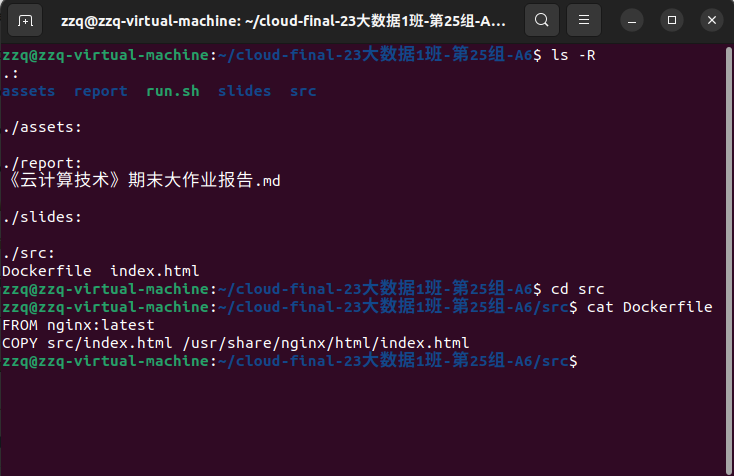
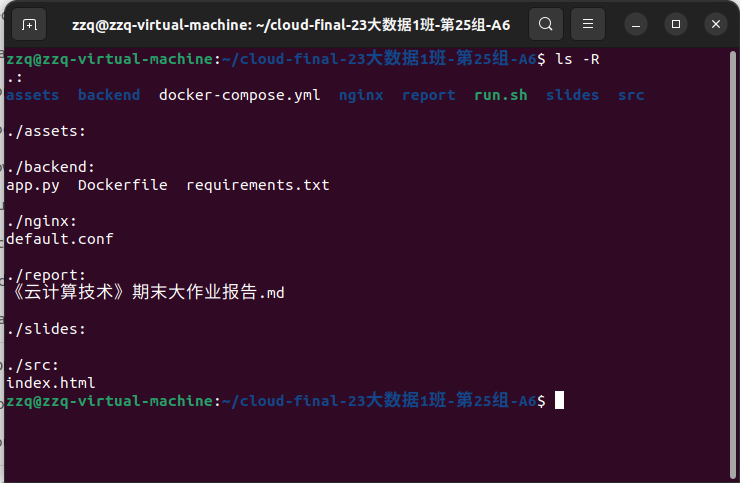
Add files via upload

diff --git a/report/实验报告.md b/report/实验报告.md
@@ -15,9 +15,9 @@
 
 | 角色 | 姓名 | 学号 | 分工 |
 | :--- | :--- | :--- | :--- |
-| 成员1 | (请填写) | (请填写) | 环境搭建、脚本编写与微服务调试 |
-| 成员2 | (请填写) | (请填写) | 镜像构建、后端代码实现与功能验证 |
-| 成员3 | (请填写) | (请填写) | 文档编写、排错记录与PPT制作 |
+| 成员1 | (周子棋40%) | (2362160025) | 环境搭建、脚本编写与微服务调试 |
+| 成员2 | (路雲通30%) | (2362160058) | 镜像构建、后端代码实现与功能验证 |
+| 成员3 | (朱星宇30%) | (2362160027) | 文档编写、排错记录与PPT制作 |
 
 ---
 
@@ -121,6 +121,10 @@ COPY src/index.html /usr/share/nginx/html/index.html
 
 ```
 
+![](../assets/02-run-v1-log.png)
+
+![](../assets/04-run-v2-success.png)
+
 **步骤 2：编写自动化脚本 run.sh**
 为了解决手动输入长命令容易出错的问题，封装了构建和运行逻辑。
 
@@ -130,8 +134,11 @@ docker run -d -p 8080:80 -v "$(pwd)/src":/usr/share/nginx/html ...
 
 ```
 
+![](../assets/05-docker-images.png)
+
 **步骤 3：部署 v1 版本**
 运行 `./run.sh v1`，脚本自动构建并启动容器。
+
 
 ### 6.3 阶段二：微服务架构改造（使用 Docker Compose）
 
@@ -199,15 +206,25 @@ services:
 预期：三个容器（web, backend, redis）状态均为 `Up`。
 实际结果：如下图所示，集群运行正常。
 
+![](../assets/07.png)
+
+![](../assets/08.png)
+
 **验证用例 4：后端 API 连通性测试**
 操作：在 Linux 终端内运行 `curl localhost:8080/api/hello`。
 预期：返回包含 `visit_count` 的 JSON 数据。
 实际结果：成功获取 JSON，证明 Nginx 反向代理和 Python 后端正常工作。
 
+![](../assets/09.png)
+
 **验证用例 5：全链路集成测试**
 操作：在浏览器访问 `http://localhost:8080` 并刷新。
 预期：网页显示蓝色信息框，且“当前访客数”随刷新增加。
 实际结果：前端成功通过 API 获取了 Redis 中的数据并渲染。
+
+![](../assets/result01.png)
+
+![](../assets/result02.png)
 
 ---
 
@@ -250,9 +267,9 @@ services:
 
 | 模块/任务 | 负责人 | 贡献说明 |
 | --- | --- | --- |
-| 环境搭建与代码仓库 | (请填写) | 完成 GitHub 初始化、Dockerfile 编写及工具安装 |
-| 自动化脚本开发 | (请填写) | 编写 `run.sh` 及 `docker-compose.yml` 编排文件 |
-| 验证与文档 | (请填写) | 完成微服务功能验证、排错记录及实验报告编写 |
+| 环境搭建与代码仓库 | (周子棋) | 完成 GitHub 初始化、Dockerfile 编写及工具安装 |
+| 自动化脚本开发 | (路雲通) | 编写 `run.sh` 及 `docker-compose.yml` 编排文件 |
+| 验证与文档 | (朱星宇) | 完成微服务功能验证、排错记录及实验报告编写 |
 
 ---
 
